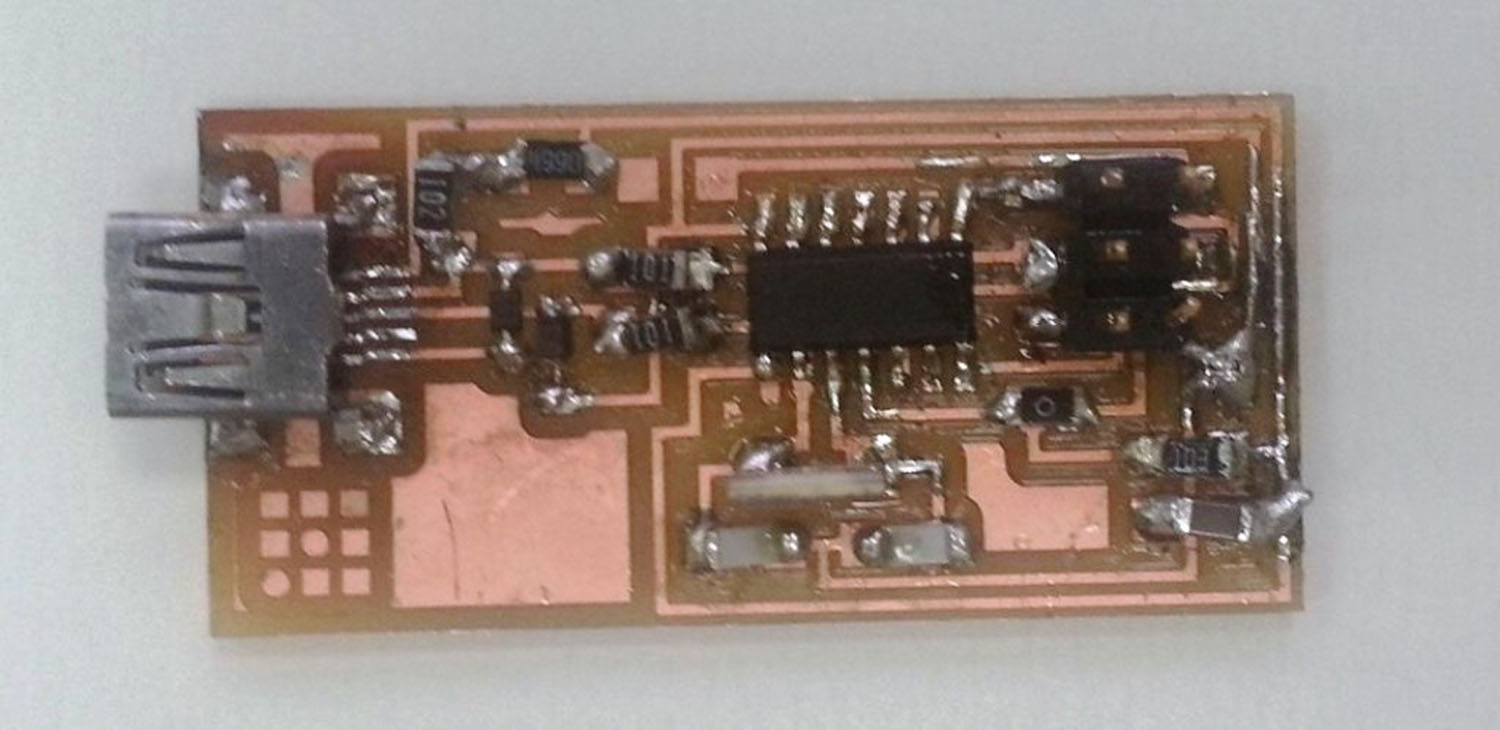
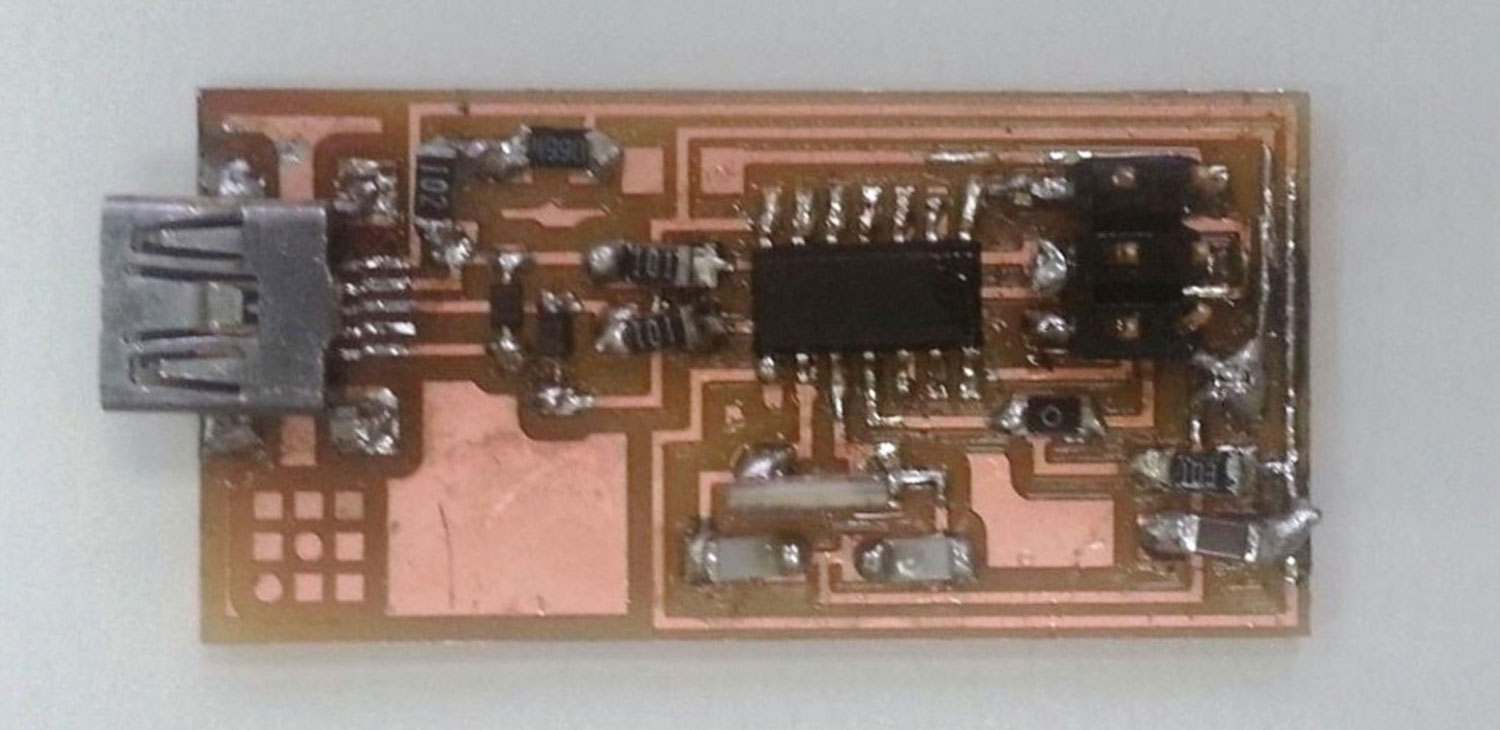
upload week6

Changed region(s): [[0.0613, 0.0904, 0.8893, 0.9041], [0.3373, 0.5726, 0.368, 0.6027]]

diff --git a/papetti.elena/Week6.html b/papetti.elena/Week6.html
@@ -1,0 +1,172 @@
+<!DOCTYPE html>
+<html lang="en">
+
+<head>
+
+    <meta charset="utf-8">
+    <meta http-equiv="X-UA-Compatible" content="IE=edge">
+    <meta name="viewport" content="width=device-width, initial-scale=1">
+    <meta name="description" content="">
+    <meta name="author" content="">
+
+    <title>FA15 | EP</title>
+
+    <!-- Bootstrap Core CSS -->
+    <link href="css/bootstrap.min.css" rel="stylesheet">
+
+    <!-- Custom CSS -->
+    <link href="css/agency.css" rel="stylesheet">
+
+    <!-- Custom Fonts -->
+    <link href="font-awesome/css/font-awesome.min.css" rel="stylesheet" type="text/css">
+    <link href="http://fonts.googleapis.com/css?family=Montserrat:400,700" rel="stylesheet" type="text/css">
+    <link href='http://fonts.googleapis.com/css?family=Kaushan+Script' rel='stylesheet' type='text/css'>
+    <link href='http://fonts.googleapis.com/css?family=Droid+Serif:400,700,400italic,700italic' rel='stylesheet' type='text/css'>
+    <link href='http://fonts.googleapis.com/css?family=Roboto+Slab:400,100,300,700' rel='stylesheet' type='text/css'>
+
+    <!-- HTML5 Shim and Respond.js IE8 support of HTML5 elements and media queries -->
+    <!-- WARNING: Respond.js doesn't work if you view the page via file:// -->
+    <!--[if lt IE 9]>
+        <script src="https://oss.maxcdn.com/libs/html5shiv/3.7.0/html5shiv.js"></script>
+        <script src="https://oss.maxcdn.com/libs/respond.js/1.4.2/respond.min.js"></script>
+    <![endif]-->
+
+</head>
+
+<body id="page-top" class="index">
+
+    <!-- Navigation -->
+    <nav class="navbar navbar-default navbar-fixed-top">
+        <div class="container">
+            <!-- Brand and toggle get grouped for better mobile display -->
+            <div class="navbar-header page-scroll">
+                <button type="button" class="navbar-toggle" data-toggle="collapse" data-target="#bs-example-navbar-collapse-1">
+                    <span class="sr-only">Toggle navigation</span>
+                    <span class="icon-bar"></span>
+                    <span class="icon-bar"></span>
+                    <span class="icon-bar"></span>
+                </button>
+                <a class="navbar-brand page-scroll" href="http://www.fabacademy.org/" target="_blank">FAB ACADEMY 2015</a>
+            </div>
+
+            <!-- Collect the nav links, forms, and other content for toggling -->
+            <div class="collapse navbar-collapse" id="bs-example-navbar-collapse-1">
+                <ul class="nav navbar-nav navbar-right">
+                    <li class="hidden">
+                        <a href="http://www.fabacademy.org/" target="_blank"> FAB ACADEMY </a>
+                    </li>
+                    <li>
+                        <a class="page-scroll" href="index.html">Home</a>
+                    </li>
+                     
+                  
+                </ul>
+            </div>
+            <!-- /.navbar-collapse -->
+        </div>
+        <!-- /.container-fluid -->
+    </nav>
+
+     <!-- Second Featurette -->
+ <div class="intro-text">
+            
+        <div class="featurette" id="services">
+            <img class="featurette-img-responsive pull-up" width="1200" src="img/WEEK6/cover6.jpg" hspace="30" vspace="80">
+            <h1> </h1>
+            <h2 class="featurette-heading">Week6
+                <br> <br/> Redraw the echo hello-world board, add (at least) a button and LED (with current-limiting resistor).
+                <p/
+                <br> <br/> 
+                <span class="text-muted">  
+            </h2>
+            <p class="lead">CLASS WEB PAGE: </P>
+                <a href="http://academy.cba.mit.edu/classes/electronics_design/index.html" target="_blank">http://academy.cba.mit.edu/classes/electronics_design/index.html </a>
+             </p><br> <br/>
+
+              <p class="lead">REFERENCES:
+             </p>
+             
+             <a href="http://www.cadsoftusa.com/download-eagle/" target="_blank">http://www.cadsoftusa.com/download-eagle/ </a><br> <br/>
+             <a href="http://allaboutlearningandearning.blogspot.com.es/2011/07/eagle-tutorial.html" target="_blank">http://allaboutlearningandearning.blogspot.com.es/2011/07/eagle-tutorial.html</a><br> <br/>
+             <a href="http://fabacademy.org/archives/2015/doc/" target="_blank">http://fabacademy.org/archives/2015/doc/</a>
+            
+
+            </p>
+
+            <p class="lead">To make the board I use Eagle freeware version to redesign the hello board. All components that I need are in the Adafruit and Fab library that we add to the Eagle basic one. I found the interface of the software quite simple. This time we are adding a lot of nice components like a button that will controll the connection of the LED with the VCC. To do the board the next step is again use the Roland Modela in order to mill the board.The steps are always the same: in Eagle save as PNG the image of the circuit on monochrome with a resolution of 500px. Than in photoshop generate the two files for the traces and interior. Again use the modela usign the tool 1/64 for traces and 1/32 for interior. Once all is ready start to put the components. Once the components are there check the connection with a multimeter and ready to play with the ISP to run the bootloader. </p> <br> <br/>
+
+            
+
+
+
+<h1> </h1>
+<img class="featurette-img-responsive pull-up" width="1200" src="img/WEEK6/1.jpg" ><br> <br/>
+<h1> </h1>
+<img class="featurette-img-responsive pull-up" width="1200" src="img/WEEK6/2.jpg" ><br> <br/>
+<h1> </h1>
+<img class="featurette-img-responsive pull-up" width="1200" src="img/WEEK6/3.jpg" ><br> <br/>
+<h1> </h1>
+<img class="featurette-img-responsive pull-up" width="1200" src="img/WEEK6/4.jpg" ><br> <br/>
+<h1> </h1>
+
+<img class="featurette-img-responsive pull-up" width="1200" src="img/WEEK6/5.jpg" ><br> <br/>
+<h1> </h1>
+<p class="lead"> COMPONENTS USED: </p>
+- 2 Resistor 10 K <br> <br/>
+- 1 Red Led 1.8 V <br> <br/>
+- 1 Resistor 180 Ohm <br> <br/>
+- Attiny 44 microcontroller <br> <br/>
+- 1 Capacitor Uf<br> <br/>
+- 1 Cer Resonator 20 MHz <br> <br/>
+- Black Button Tactile Switch <br> <br/>
+- Isp 
+- FTDI <br> <br/>
+<p class="lead">A SHORT VIDEO OF MILLING PROCESS:
+             </p>
+             
+             <a href="https://vimeo.com/121762764" target="_blank">https://vimeo.com/121762764 </a>
+            
+
+            </p>
+
+             <p class="lead">Machine References:
+             </p>
+             
+             <a href="http://www.rolanddga.com/products/3d/srm20/" target="_blank">http://www.rolanddga.com/products/3d/srm20/ </a>
+            
+
+            </p>
+
+            <p class="lead">NOTE:
+                As being a beginner in electronics, I was had problem understanding all the components and the relation with eachother but some specialists of the Frosinone Fab Lab explained about all the components and I know basic of all the components for atleast this HELLOboard, and also I had problems with soldering all the small components but after mnaking these FabISP as 4th week assignment and HELLOboard this time, I have a bit of confidence in slodering. </p> 
+
+
+<footer>
+        <div class="container">
+            <div class="row">
+                <div class="col-md-4">
+                    <span class="copyright">Copyright &copy; 2015 Elena Papetti </span>
+                </div>
+
+ 
+    <!-- jQuery -->
+    <script src="js/jquery.js"></script>
+
+    <!-- Bootstrap Core JavaScript -->
+    <script src="js/bootstrap.min.js"></script>
+
+    <!-- Plugin JavaScript -->
+    <script src="http://cdnjs.cloudflare.com/ajax/libs/jquery-easing/1.3/jquery.easing.min.js"></script>
+    <script src="js/classie.js"></script>
+    <script src="js/cbpAnimatedHeader.js"></script>
+
+    <!-- Contact Form JavaScript -->
+    <script src="js/jqBootstrapValidation.js"></script>
+    <script src="js/contact_me.js"></script>
+
+    <!-- Custom Theme JavaScript -->
+    <script src="js/agency.js"></script>
+
+</body>
+
+</html>

diff --git a/papetti.elena/index.html b/papetti.elena/index.html
@@ -232,7 +232,7 @@
                                 <i class="fa fa-plus fa-3x"></i>
                             </div>
                         </div>
-                        <img src="img/portfolio/cover.jpg" class="img-responsive" alt="">
+                        <img src="img/WEEK6/cover6.jpg" class="img-responsive" alt="">
                     </a>
                     <div class="portfolio-caption">
                         <h4>Week 6</h4>
